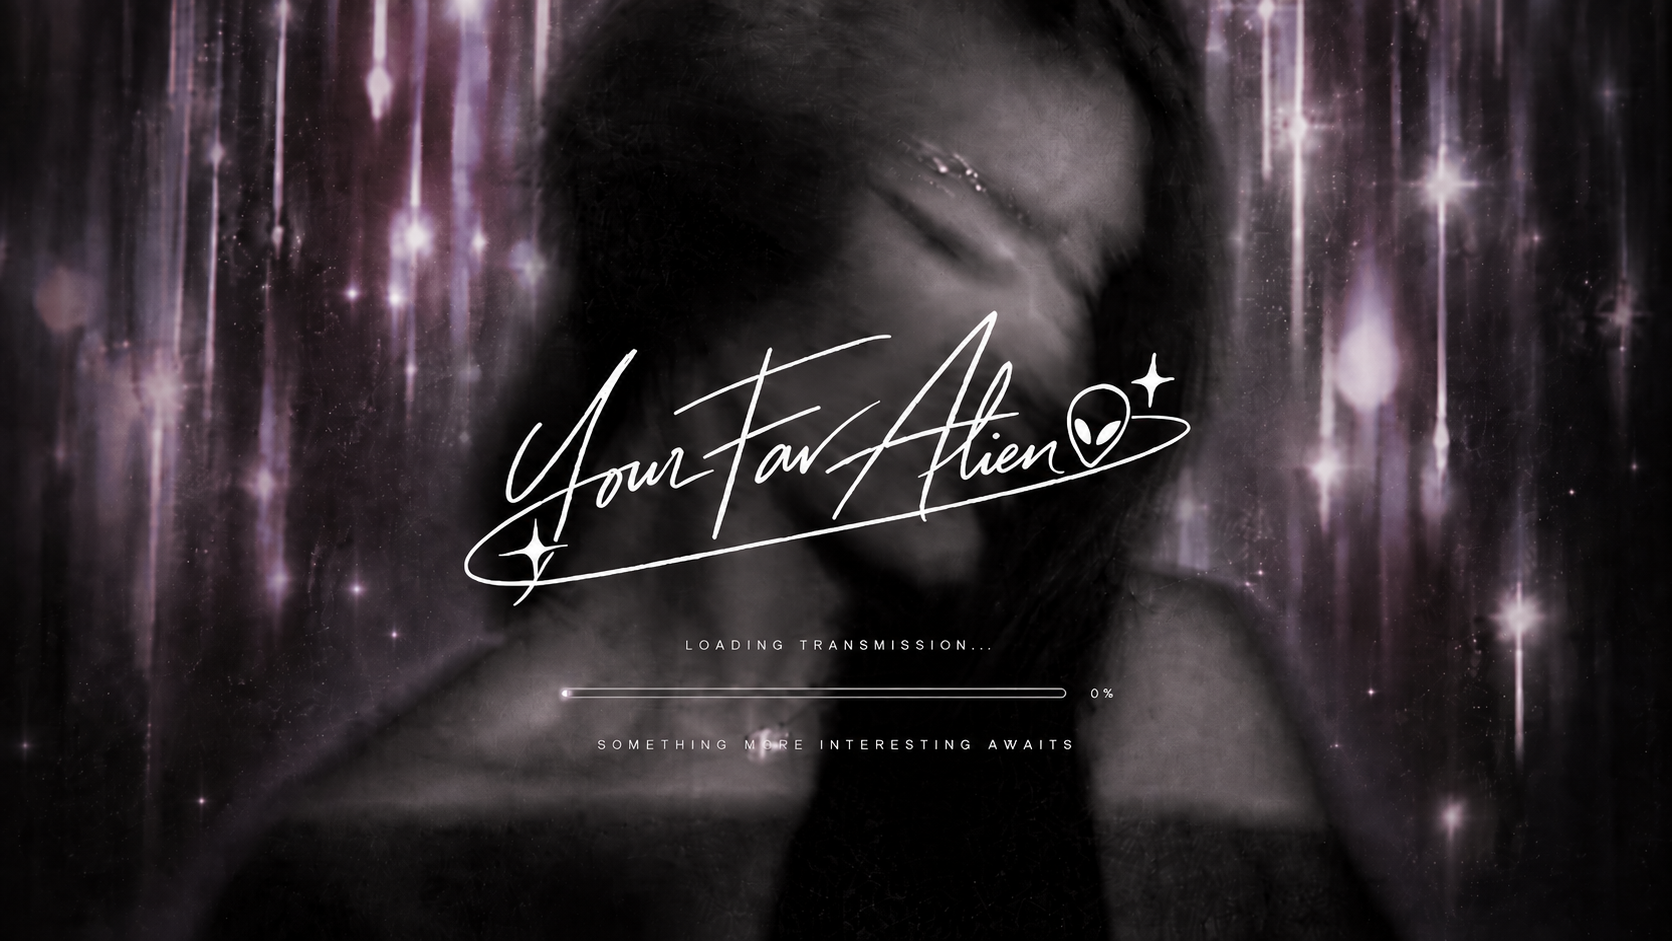
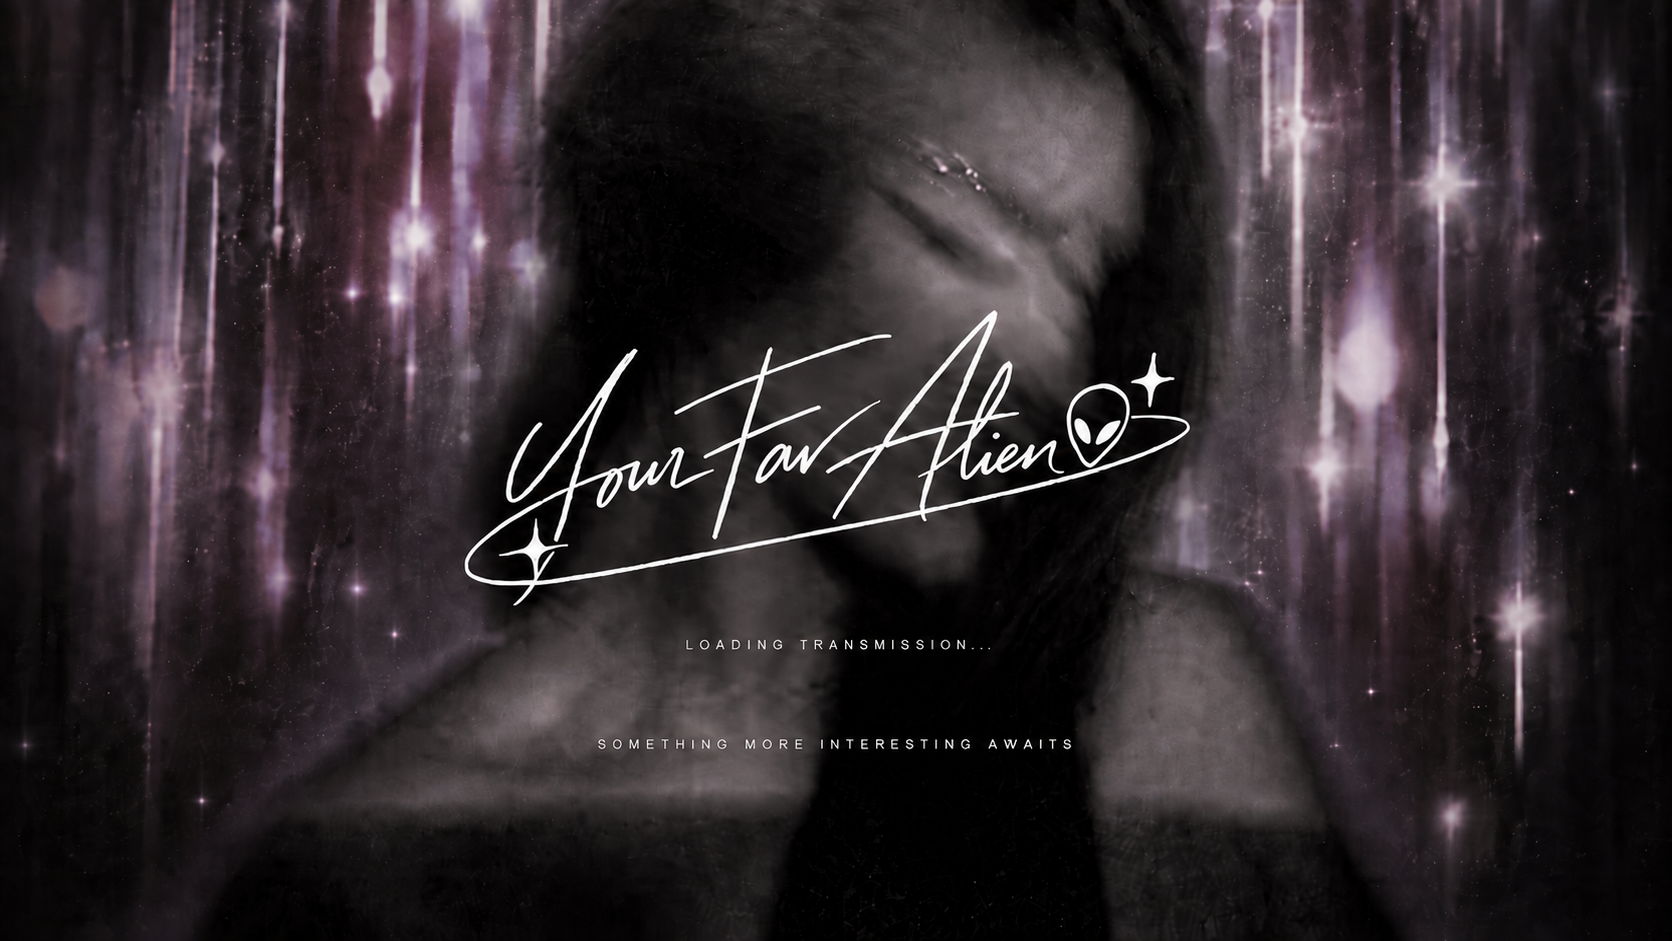
Position real loader progress and replay intro

diff --git a/yfa-site-shell.js b/yfa-site-shell.js
@@ -3,12 +3,9 @@
 
   const normalizedPath = window.location.pathname.replace(/\/+$/, '') || '/';
   const isHomePage = normalizedPath === '/' || normalizedPath.toLowerCase().endsWith('/index.html');
-  let introAlreadyPlayed = false;
-  try { introAlreadyPlayed = window.sessionStorage.getItem('yfaIntroPlayed') === '1'; } catch (error) {}
-  const shouldPlayIntro = isHomePage && !introAlreadyPlayed;
-  if (shouldPlayIntro) {
-    try { window.sessionStorage.setItem('yfaIntroPlayed', '1'); } catch (error) {}
-  }
+  // The first-page video is part of the homepage experience and should play
+  // again whenever the visitor refreshes the homepage.
+  const shouldPlayIntro = isHomePage;
   if (shouldPlayIntro) document.documentElement.classList.add('yfa-intro-pending');
   else document.documentElement.classList.add('yfa-page-loading');
   window.addEventListener('pageshow', function (event) {
@@ -419,12 +416,11 @@
     loader.className = 'yfa-page-loader';
     loader.setAttribute('role', 'status');
     loader.setAttribute('aria-live', 'polite');
-    loader.innerHTML = '<div class="yfa-page-loader__content"><p class="yfa-page-loader__label">loading transmission…</p><div class="yfa-page-loader__progress" role="progressbar" aria-label="Page loading progress" aria-valuemin="0" aria-valuemax="100" aria-valuenow="0"><span></span></div><output class="yfa-page-loader__percent">0%</output><p class="yfa-page-loader__note">something more interesting awaits</p></div>';
+    loader.innerHTML = '<div class="yfa-page-loader__content"><div class="yfa-page-loader__progress" role="progressbar" aria-label="Page loading progress" aria-valuemin="0" aria-valuemax="100" aria-valuenow="0"><span></span></div><output class="yfa-page-loader__percent">0%</output></div>';
     document.body.append(loader);
     const progress = loader.querySelector('.yfa-page-loader__progress');
     const fill = progress.querySelector('span');
     const percent = loader.querySelector('.yfa-page-loader__percent');
-    const label = loader.querySelector('.yfa-page-loader__label');
     let dismissed = false;
     let currentProgress = 0;
     function setProgress(value) {
@@ -438,7 +434,6 @@
       if (dismissed) return;
       dismissed = true;
       setProgress(100);
-      label.textContent = 'signal received';
       document.documentElement.classList.remove('yfa-page-loading');
       loader.classList.add('is-ending');
       window.setTimeout(function () {

diff --git a/yfa-site-shell.css b/yfa-site-shell.css
@@ -8,12 +8,10 @@ html.yfa-page-loading body > *:not(.yfa-page-loader) { visibility:hidden; }
 .yfa-page-loader::before { content:"";position:absolute;inset:0;z-index:-1;background:rgba(8,5,10,.2); }
 .yfa-page-loader::after { content:none; }
 .yfa-page-loader.is-ending { opacity:0;pointer-events:none; }
-.yfa-page-loader__content { width:min(560px,68vw);margin-top:30vh;display:grid;grid-template-columns:1fr auto;gap:22px 20px;align-items:center;text-shadow:0 1px 10px rgba(0,0,0,.9); }
-.yfa-page-loader__label { grid-column:1/-1;margin:0;color:#f7f2f4;font:500 clamp(10px,1vw,13px)/1 "Courier Prime",monospace;letter-spacing:.45em;text-transform:uppercase; }
+.yfa-page-loader__content { position:absolute;top:72.8vh;left:50%;width:min(560px,68vw);display:grid;grid-template-columns:1fr auto;gap:20px;align-items:center;transform:translateX(-50%);text-shadow:0 1px 10px rgba(0,0,0,.9); }
 .yfa-page-loader__progress { height:10px;border:1px solid rgba(247,242,244,.95);border-radius:999px;padding:2px;background:rgba(16,10,16,.45);box-shadow:0 0 14px rgba(245,224,255,.24);overflow:hidden; }
 .yfa-page-loader__progress span { display:block;width:0;height:100%;border-radius:inherit;background:linear-gradient(90deg,#efe5f4,#fff 55%,#d7bfe5);box-shadow:0 0 10px rgba(255,255,255,.95);transition:width 180ms ease-out; }
 .yfa-page-loader__percent { min-width:42px;color:#f7f2f4;font:500 clamp(11px,1vw,14px)/1 "Courier Prime",monospace;letter-spacing:.16em;text-align:left; }
-.yfa-page-loader__note { grid-column:1/-1;margin:11px 0 0;color:rgba(247,242,244,.92);font:500 clamp(9px,.85vw,12px)/1.35 "Courier Prime",monospace;letter-spacing:.45em;text-transform:uppercase; }
 body > nav:not(.yfa-menu-panel) { visibility:hidden!important;opacity:0!important;pointer-events:none!important; }
 .yfa-intro { position:fixed;inset:0;z-index:2147483000;overflow:hidden;visibility:visible!important;background:#050205;opacity:1;transition:opacity 180ms ease-out; }
 .yfa-intro.is-ending { opacity:0;pointer-events:none; }

diff --git a/privacy.html b/privacy.html
@@ -24,7 +24,7 @@
     .policy{display:grid;gap:18px}.card{padding:clamp(22px,4vw,36px);border:1px solid rgba(240,236,232,.12);border-radius:22px;background:linear-gradient(145deg,rgba(18,8,13,.94),rgba(30,10,20,.88));box-shadow:0 20px 55px rgba(0,0,0,.22)}h2{margin:0 0 12px;color:var(--white);font-size:21px}p,li{color:var(--muted);font-size:15px;line-height:1.75}p:last-child{margin-bottom:0}ul{margin:8px 0 0;padding-left:21px}a{color:var(--cyan)}strong{color:var(--white)}footer{padding:28px 18px;border-top:1px solid rgba(240,236,232,.1);color:#988b91;text-align:center;font-size:12px}
     @media(max-width:620px){nav{gap:13px;overflow-x:auto;justify-content:flex-start}nav a{white-space:nowrap}main{padding-top:48px}}
   </style>
-<link rel="stylesheet" href="/yfa-site-shell.css?v=20260909-real-progress-1">
+<link rel="stylesheet" href="/yfa-site-shell.css?v=20260909-real-progress-2">
   <style id="yfa-privacy-cleanup">
     :root{--privacy-ink:#17151a;--privacy-muted:#65606a;--privacy-blue:#3478e5;--privacy-pink:#f5d9e8;--privacy-lilac:#e8e2fb;--privacy-line:#e7e3e9}
     html{background:#fff;color:var(--privacy-ink)}
@@ -52,7 +52,7 @@
     @media(max-width:620px){main{width:min(100% - 34px,920px);padding-top:116px}.eyebrow{font-size:9px}h1{font-size:clamp(42px,13vw,58px);letter-spacing:-.045em}.intro{font-size:16px}.updated{margin-bottom:42px}.privacy-mark{width:62px;height:62px;border-radius:20px;font-size:27px}.card{padding:32px 10px 32px 17px}.card::before{top:39px}.card p,.card li{font-size:15px;line-height:1.67}}
   </style>
 <script defer src="/privacy-choices.js?v=20260909-stability2"></script>
-<script defer src="/yfa-site-shell.js?v=20260909-real-progress-1"></script>
+<script defer src="/yfa-site-shell.js?v=20260909-real-progress-2"></script>
 </head>
 <body>
   <nav aria-label="Primary navigation">

diff --git a/contact.html b/contact.html
@@ -801,9 +801,9 @@ body.yfa-orbit-open { overflow:hidden !important; }
   }
 }
 </style>
-<link rel="stylesheet" href="/yfa-site-shell.css?v=20260909-real-progress-1">
+<link rel="stylesheet" href="/yfa-site-shell.css?v=20260909-real-progress-2">
 <script defer src="/privacy-choices.js?v=20260909-stability2"></script>
-<script defer src="/yfa-site-shell.js?v=20260909-real-progress-1"></script>
+<script defer src="/yfa-site-shell.js?v=20260909-real-progress-2"></script>
 <style id="yfa-contact-cleanup">
   .contact-page{min-height:100svh;padding:clamp(118px,13vw,160px) clamp(24px,8vw,110px) 70px;justify-content:center;background:radial-gradient(circle at 82% 48%,rgba(181,23,94,.12),transparent 32rem)}
   .contact-inner{max-width:520px}

diff --git a/index.html b/index.html
@@ -871,9 +871,9 @@ body.yfa-orbit-open { overflow:hidden !important; }
   }
 }
 </style>
-<link rel="stylesheet" href="/yfa-site-shell.css?v=20260909-real-progress-1">
+<link rel="stylesheet" href="/yfa-site-shell.css?v=20260909-real-progress-2">
 <script defer src="/privacy-choices.js?v=20260909-stability2"></script>
-<script defer src="/yfa-site-shell.js?v=20260909-real-progress-1"></script>
+<script defer src="/yfa-site-shell.js?v=20260909-real-progress-2"></script>
 </head>
 <body>
 <p id="homeIdentityLine" class="home-identity-line">model <span aria-hidden="true">·</span> main character energy <span aria-hidden="true">·</span> fashion</p>

diff --git a/about.html b/about.html
@@ -766,9 +766,9 @@ body.yfa-orbit-open { overflow:hidden !important; }
   }
 }
 </style>
-<link rel="stylesheet" href="/yfa-site-shell.css?v=20260909-real-progress-1">
+<link rel="stylesheet" href="/yfa-site-shell.css?v=20260909-real-progress-2">
 <script defer src="/privacy-choices.js?v=20260909-stability2"></script>
-<script defer src="/yfa-site-shell.js?v=20260909-real-progress-1"></script>
+<script defer src="/yfa-site-shell.js?v=20260909-real-progress-2"></script>
 </head>
 <body>
 <nav>

diff --git a/socials.html b/socials.html
@@ -847,9 +847,9 @@ nav a {
   }
 }
 </style>
-<link rel="stylesheet" href="/yfa-site-shell.css?v=20260909-real-progress-1">
+<link rel="stylesheet" href="/yfa-site-shell.css?v=20260909-real-progress-2">
 <script defer src="/privacy-choices.js?v=20260909-stability2"></script>
-<script defer src="/yfa-site-shell.js?v=20260909-real-progress-1"></script>
+<script defer src="/yfa-site-shell.js?v=20260909-real-progress-2"></script>
 </head>
 <body>
 <nav>
